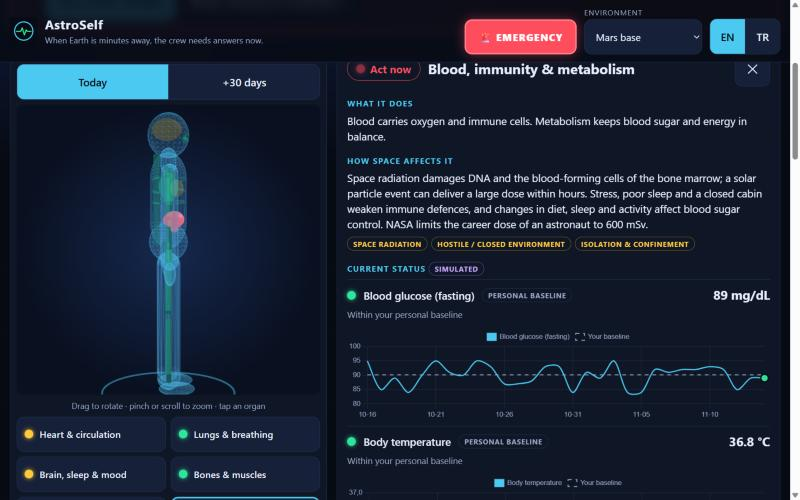
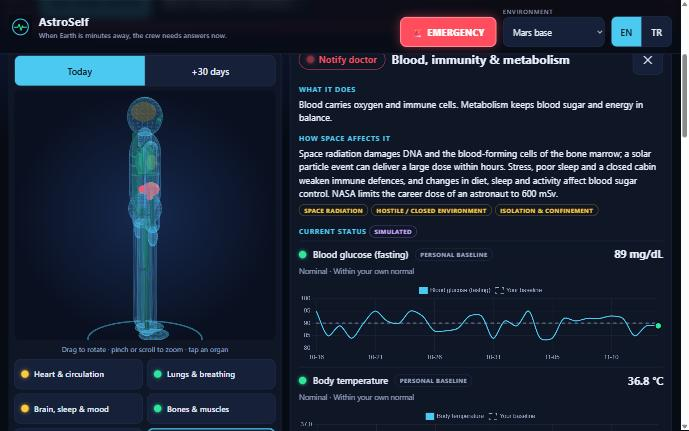
Plain-language reasons instead of sigma, balanced levels (Watch / Caution / Notify doctor), red only when the reference range agrees, real-data badge on the glucose card, cleaner cards

diff --git a/js/app.js b/js/app.js
@@ -3,7 +3,7 @@ import { state, loadState, setState, subscribe, saveEntry, dateStr } from './sto
 import { renderCheckin } from './checkin.js';
 import { evaluate, evalMetric, computeBaseline, worst, SYSTEM_ORDER } from './rules.js';
 import { demoEntries, DEMO_NAME, SCENARIOS } from './demo.js';
-import { valueText, reasonText, driverLabel, delayText } from './ui.js';
+import { valueText, reasonText, statusText, delayText } from './ui.js';
 import { renderPanel } from './panel.js';
 import { loadSpaceWeather, renderSpaceWeather } from './spaceweather.js';
 import { initEmergency, openEmergency, renderEmergency } from './emergency.js';
@@ -56,7 +56,7 @@ function renderCheckinView() {
     refs, content, entries: state.entries,
     evalFn(key, value) {
       const r = evalMetric(key, value, refs, baseline);
-      return { status: r.status, text: reasonText(r, refs) };
+      return { status: r.status, label: statusText(r), text: reasonText(r, refs) };
     },
     onSave(entry) {
       saveEntry(entry);
@@ -81,7 +81,7 @@ function metricCard({ title, system, parts, value, extra, badgeKey, foot }) {
       <span class="val">${value}${extra ? ` <small>${esc(extra)}</small>` : ''}</span>
       <span class="why">${esc(reasonText(top, refs))}</span>
       ${foot ? `<span class="foot">${foot}</span>` : ''}
-      <span class="top"><span><span class="dot ${top.status}" style="display:inline-block;vertical-align:middle"></span> ${t('status.' + top.status)}</span><span>${esc(driverLabel(top))}</span></span>
+      <span class="top"><span><span class="dot ${top.status}" style="display:inline-block;vertical-align:middle"></span> ${statusText(top)}</span></span>
     </button>`;
 }
 
@@ -104,7 +104,7 @@ function renderOverview(res) {
   if (m.sys && m.dia) cards.push(metricCard({ title: t('card.bp'), system: 'cardio', parts: [m.sys, m.dia], value: `${m.sys.value}/${m.dia.value}`, extra: 'mmHg', badgeKey: 'sys' }));
   if (m.temp) cards.push(metricCard({ title: name('temp'), system: 'lungs', parts: [m.temp], value: esc(valueText(m.temp, refs)), badgeKey: 'temp' }));
   if (m.glucose) cards.push(metricCard({ title: name('glucose'), system: 'blood', parts: [m.glucose], value: esc(valueText(m.glucose, refs)), badgeKey: 'glucose',
-    foot: i4 ? `${t('i4.card', { v: Math.round(i4.analytes.glucose.preflightMean) })} · ${t('badge.real')}` : '' }));
+    foot: i4 ? `<span class="badge real">${t('badge.real')}</span> ${t('i4.card', { v: Math.round(i4.analytes.glucose.preflightMean) })}` : '' }));
   if (m.sleepH && m.sleepQ) cards.push(metricCard({ title: t('card.sleep'), system: 'brain', parts: [m.sleepH, m.sleepQ], value: esc(valueText(m.sleepH, refs)), extra: t('card.sleepQ', { q: m.sleepQ.value }), badgeKey: 'sleepH' }));
   if (m.mood) cards.push(metricCard({ title: name('mood'), system: 'brain', parts: [m.mood], value: esc(valueText(m.mood, refs)), badgeKey: 'mood' }));
   if (m.vision) cards.push(metricCard({ title: name('vision'), system: 'eyes', parts: [m.vision], value: `<span style="font-size:1.3rem">${esc(valueText(m.vision, refs))}</span>`, badgeKey: 'vision' }));

diff --git a/js/rules.js b/js/rules.js
@@ -8,6 +8,8 @@
 // Prototype values. Real medical thresholds are set by flight surgeons.
 
 const RANK = { green: 0, yellow: 1, red: 2 };
+const TIER = { green: 0, watch: 1, caution: 2, red: 3 };
+const tierOf = (x) => x.tier || (x.status === 'yellow' ? 'watch' : x.status);
 export const worst = (a, b) => (RANK[b] > RANK[a] ? b : a);
 
 // Which indicators feed which body system.
@@ -57,18 +59,28 @@ export function evalMetric(key, value, refs, baseline) {
   const m = refs.metrics[key];
   const earth = rangeStatus(value, m);
   const st = baseline && baseline.stats[key];
+  const Z = refs.zscore;
   let z = null;
-  let zStatus = 'green';
+  let dev = 0; // distance from the personal baseline in the direction that matters, in SD
   if (st) {
     z = (value - st.mean) / st.sd;
-    const dev = m.dir === 'low' ? -z : m.dir === 'high' ? z : Math.abs(z);
-    if (dev >= refs.zscore.red) zStatus = 'red';
-    else if (dev >= refs.zscore.yellow) zStatus = 'yellow';
+    dev = m.dir === 'low' ? -z : m.dir === 'high' ? z : Math.abs(z);
   }
-  const status = worst(earth, zStatus);
+  const zStatus = dev >= Z.red ? 'red' : dev >= Z.yellow ? 'yellow' : 'green';
+
+  // A change from the personal baseline alone raises an indicator to yellow at most.
+  // Red ("notify doctor") needs the clinical reference range to agree.
+  let status = earth;
+  if (dev >= Z.yellow) status = worst(status, 'yellow');
+  if (dev >= Z.red && earth !== 'green') status = 'red';
+
+  // Yellow has two steps: "watch" and the stronger "caution".
+  let tier = status;
+  if (status === 'yellow') tier = dev >= Z.red || (earth === 'yellow' && dev >= Z.yellow) ? 'caution' : 'watch';
+
   let driver = null; // what caused a non-green status
-  if (status !== 'green') driver = RANK[zStatus] >= RANK[earth] ? 'baseline' : m.label;
-  return { key, value, status, earth, z, zStatus, driver, baseline: st || null, label: m.label };
+  if (status !== 'green') driver = dev >= Z.yellow ? 'baseline' : m.label;
+  return { key, value, status, tier, earth, z, zStatus, driver, baseline: st || null, label: m.label };
 }
 
 export function missionDay(entries) {
@@ -117,7 +129,8 @@ export function evaluate(entries, envKey, refs) {
   for (const id of SYSTEM_ORDER) {
     const list = SYSTEMS[id].map((k) => metrics[k]).filter(Boolean);
     const status = list.reduce((s, m) => worst(s, m.status), 'green');
-    systems[id] = { id, status, metrics: list };
+    const tier = list.reduce((a, m) => (TIER[tierOf(m)] > TIER[a] ? tierOf(m) : a), 'green');
+    systems[id] = { id, status, tier, metrics: list };
     overall = worst(overall, status);
   }
 

diff --git a/js/report.js b/js/report.js
@@ -1,7 +1,7 @@
 // One-page printable report for the flight surgeon (weekly private medical conference).
 import { t, L, fmt, esc } from './i18n.js';
 import { SYSTEM_ORDER } from './rules.js';
-import { valueText, reasonText, delayText } from './ui.js';
+import { valueText, reasonText, delayText, statusText } from './ui.js';
 import { riskDrivers } from './outlook.js';
 
 const ROWS = ['hr', 'sys', 'dia', 'temp', 'glucose', 'sleepH', 'sleepQ', 'mood', 'vision', 'radiation', 'bone'];
@@ -14,14 +14,14 @@ export function renderReport(el, { res, out, entries, refs, content, envKey, who
   }
   const env = refs.environments[envKey];
   const name = (k) => L(content.metrics[k].name);
-  const st = (s) => `<span class="rs ${s}">${t('status.' + s)}</span>`;
+  const st = (x) => `<span class="rs ${x.status}">${statusText(x)}</span>`;
   const lv = (s) => `<span class="rs ${s}">${t('level.' + s)}</span>`;
   const m = res.metrics;
 
   const indicators = ROWS.filter((k) => m[k]).map((k) => `
-    <tr><td>${esc(name(k))}</td><td><b>${esc(valueText(m[k], refs))}</b></td><td>${st(m[k].status)}</td><td>${esc(reasonText(m[k], refs))}</td></tr>`).join('');
+    <tr><td>${esc(name(k))}</td><td><b>${esc(valueText(m[k], refs))}</b></td><td>${st(m[k])}</td><td>${esc(reasonText(m[k], refs))}</td></tr>`).join('');
 
-  const systems = SYSTEM_ORDER.map((id) => `<span class="rsys">${esc(L(content.systems[id].name))}: ${st(res.systems[id].status)}</span>`).join('');
+  const systems = SYSTEM_ORDER.map((id) => `<span class="rsys">${esc(L(content.systems[id].name))}: ${st(res.systems[id])}</span>`).join('');
 
   const risks = out && out.ready ? out.risks.map((r) => `
     <tr><td>${t('risk.' + r.id)}</td><td>${lv(r.status)}</td><td>${riskDrivers(r, out, content, refs).map(esc).join('; ')}</td></tr>`).join('') : '';
@@ -48,7 +48,7 @@ export function renderReport(el, { res, out, entries, refs, content, envKey, who
         </div>
       </header>
 
-      <h2>${t('report.overall')}: ${st(res.overall)}</h2>
+      <h2>${t('report.overall')}: <span class="rs ${res.overall}">${t('overall.' + res.overall)}</span></h2>
       <p class="syslist">${systems}</p>
 
       <h2>${t('report.indicators', { date: res.latest.date })}</h2>

diff --git a/js/panel.js b/js/panel.js
@@ -2,7 +2,7 @@
 // what to do, when to notify the flight surgeon (with the communication delay), and sources.
 import { t, L, esc } from './i18n.js';
 import { clearCharts, trendChart } from './charts.js';
-import { valueText, reasonText, driverLabel, delayText } from './ui.js';
+import { valueText, reasonText, driverLabel, delayText, statusText, sigmaNote } from './ui.js';
 import { i4Html, i4Chart } from './i4.js';
 
 // Which indicators share one chart in each system's panel.
@@ -36,7 +36,8 @@ export function renderPanel(el, { id, res, entries, refs, content, sources, envK
             <span class="badge">${esc(driverLabel(r))}</span>
             <span class="v">${esc(valueText(r, refs))}</span>
           </div>
-          <div class="why">${esc(reasonText(r, refs))}</div>
+          <div class="why">${esc(statusText(r))} · ${esc(reasonText(r, refs))}</div>
+          ${sigmaNote(r) ? `<div class="sigma">ⓘ ${esc(sigmaNote(r))}</div>` : ''}
         </div>`).join('');
       charts.push(group);
       return `${rows}<div class="chartbox"><canvas data-chart="${gi}"></canvas></div>`;
@@ -54,7 +55,7 @@ export function renderPanel(el, { id, res, entries, refs, content, sources, envK
   el.hidden = false;
   el.innerHTML = `
     <div class="phead">
-      ${status ? `<span class="pill ${status}"><span class="dot ${status}"></span>${t('status.' + status)}</span>` : ''}
+      ${status ? `<span class="pill ${status}"><span class="dot ${status}"></span>${statusText(res.systems[id])}</span>` : ''}
       <h2>${esc(L(sys.name))}</h2>
       <button type="button" class="close" data-act="close" aria-label="${t('panel.close')}">✕</button>
     </div>

diff --git a/js/ui.js b/js/ui.js
@@ -44,9 +44,9 @@ export function reasonText(r, refs) {
     return t(isEarth ? 'reason.ok.earth' : 'reason.ok.range');
   }
   if (r.driver === 'baseline') {
-    return t(r.z > 0 ? 'reason.above' : 'reason.below', {
-      z: fmt(Math.abs(r.z), 1), mean: fmt(r.baseline.mean, m.digits), unit: m.unit,
-    });
+    // Plain words instead of statistics: "clearly higher than your normal (61 → 82 bpm)".
+    const key = `reason.${r.z > 0 ? 'above' : 'below'}${Math.abs(r.z) >= refs.zscore.red ? '.strong' : ''}`;
+    return t(key, { mean: fmt(r.baseline.mean, m.digits), value: fmt(r.value, m.digits), unit: m.unit });
   }
   return t(isEarth ? 'reason.earth' : 'reason.range', { range: rangeText(m), unit: m.unit });
 }
@@ -57,4 +57,14 @@ export function driverLabel(r) {
   if (r.label === 'nasa') return t('label.nasa');
   if (r.label === 'earth') return t('label.earth');
   return t('badge.ill');
+}
+
+// Status word for an indicator or body system: Nominal / Watch / Caution / Notify doctor.
+export function statusText(x) {
+  return t('status.' + (x.status === 'yellow' && x.tier === 'caution' ? 'caution' : x.status));
+}
+
+// The statistics behind a baseline alert, for readers who want them.
+export function sigmaNote(r) {
+  return r.z != null && r.driver === 'baseline' ? t('reason.sigma', { z: fmt(Math.abs(r.z), 1) }) : '';
 }

diff --git a/js/emergency.js b/js/emergency.js
@@ -1,7 +1,7 @@
 // Emergency Mode: offline step-by-step checklists, an "Earth reply" countdown and a report for the flight surgeon.
 // No diagnosis and no medication doses.
 import { t, L, esc, fmt, getLang } from './i18n.js';
-import { delayText, valueText } from './ui.js';
+import { delayText, valueText, statusText } from './ui.js';
 
 const KEY = 'astroself.em.v1';
 
@@ -116,7 +116,7 @@ function buildReport() {
     const val = (k) => (m[k] ? `${name(k)}: ${valueText(m[k], ctx.refs)}` : null);
     lines.push('', `${t('rep.vitals', { date: res.latest.date })}:`);
     lines.push(...['hr', 'sys', 'dia', 'temp', 'glucose', 'sleepH', 'sleepQ', 'mood', 'vision'].map(val).filter(Boolean).map((x) => '  ' + x));
-    const flags = Object.values(m).filter((x) => x.status !== 'green').map((x) => `${name(x.key)} (${t('status.' + x.status)})`);
+    const flags = Object.values(m).filter((x) => x.status !== 'green').map((x) => `${name(x.key)} (${statusText(x)})`);
     lines.push(`${t('rep.flags')}: ${flags.length ? flags.join(', ') : t('rep.none')}`);
     lines.push(`${t('dose.title')}: ${fmt(m.radiation.cumulative, 1)} mSv (${fmt(m.radiation.pct, 1)}% / ${ctx.refs.radiation.careerLimit_mSv} mSv)`);
   }

diff --git a/js/outlook.js b/js/outlook.js
@@ -48,7 +48,9 @@ export function computeOutlook(entries, envKey, refs, res) {
     // Current level: the fitted line today, or the mean of the last 3 days when there is no trend.
     const last3 = ys.slice(-3);
     const level = flat ? last3.reduce((s, v) => s + v, 0) / last3.length : fit.intercept + fit.slope * (ys.length - 1);
-    const at = (d) => Math.min(m.max, Math.max(m.min, level + slope * d));
+    // A trend is assumed to continue for at most as long as it has been observed, then to hold.
+    const reach = ys.length - 1;
+    const at = (d) => Math.min(m.max, Math.max(m.min, level + slope * Math.min(d, reach)));
     const statusAt = (d) => evalMetric(key, at(d), refs, baseline).status;
     let toYellow = null, toRed = null;
     for (let d = 0; d <= H; d++) {

diff --git a/css/style.css b/css/style.css
@@ -132,7 +132,8 @@ main { padding: 16px; max-width: 1400px; margin: 0 auto; }
 .i4table th:first-child, .i4table td:first-child { text-align: left; }
 .i4table th { color: var(--muted); font-weight: 600; font-size: .78rem; }
 .i4table small { color: var(--muted); }
-.mcard .foot { font-size: .78rem; color: var(--green); }
+.mcard .foot { font-size: .78rem; color: var(--muted); display: flex; flex-wrap: wrap; gap: 4px 8px; align-items: center; }
+.sigma { color: var(--muted); font-size: .76rem; opacity: .85; }
 
 /* ---------- dashboard ---------- */
 .dash { display: grid; gap: 16px; grid-template-columns: 1fr; }

diff --git a/js/checkin.js b/js/checkin.js
@@ -101,7 +101,7 @@ export function renderCheckin(root, { refs, content, entries, evalFn, onSave }) 
     const rank = { green: 0, yellow: 1, red: 2 };
     const top = results.reduce((a, b) => (rank[b.status] > rank[a.status] ? b : a));
     field.classList.add(top.status);
-    out.textContent = `${t('status.' + top.status)} · ${top.text}`;
+    out.textContent = `${top.label} · ${top.text}`;
   }
 
   function setNum(key, raw) {

diff --git a/sw.js b/sw.js
@@ -1,5 +1,5 @@
 // Offline support. Network-first (so new deploys show up), cache fallback (so it works with no internet).
-const CACHE = 'astroself-v12';
+const CACHE = 'astroself-v13';
 const ASSETS = [
   './',
   'index.html',

diff --git a/README.md b/README.md
@@ -103,7 +103,7 @@ Also used: [NASA HRP 5 Hazards](https://www.nasa.gov/hrp/hazards/), [HRP Risks](
 ### Illustrative values
 
 These cut-offs were chosen by the team for the prototype and are marked `illustrative` in `data/references.json`:
-Earth reference ranges (simplified general adult ranges), the z-score levels (2 SD = yellow, 3 SD = red), daily dose
+Earth reference ranges (simplified general adult ranges), the z-score levels (2 SD = "Watch", 3 SD = "Caution"; a baseline change alone never turns red, red also needs the reference range to agree), daily dose
 alert levels (5 / 25 mSv), the simulated solar particle event dose (45 mSv), the "elevated" proton flux level (1 pfu),
 sleep debt levels (10 / 20 h) and the outlook window (14 days).
 
